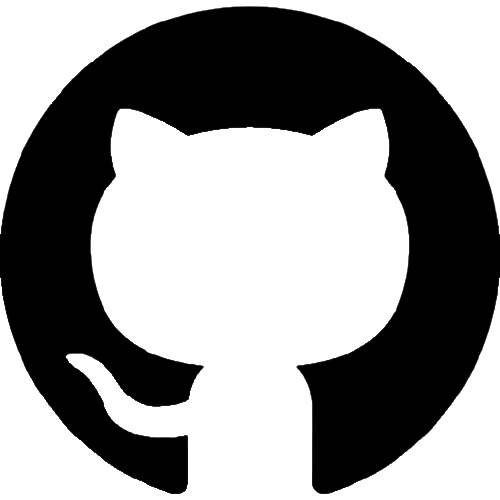
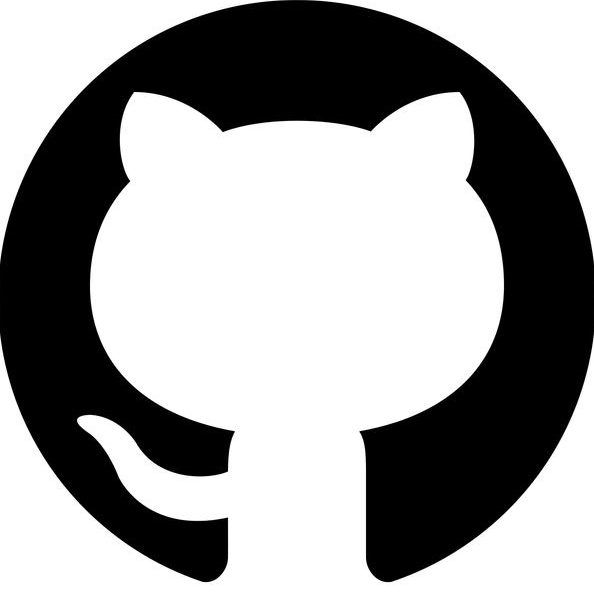
Redimensionamento dos ícones de link das redes sociais da página About Me

diff --git a/src/pages/AboutMe/SocialNetworks/SocialNetworks.style.ts b/src/pages/AboutMe/SocialNetworks/SocialNetworks.style.ts
@@ -32,8 +32,8 @@ export const DirectMessageContainer = styled(Box)`
     }
 
     .section-info-main img {
-        width: 16rem;
-        height: 16rem;
+        width: 10rem;
+        height: 10rem;
 
         border-radius: 50%;
 
@@ -42,8 +42,8 @@ export const DirectMessageContainer = styled(Box)`
 
     .img-filter {
         position: absolute;
-        width: 16rem;
-        height: 16rem;
+        width: 10rem;
+        height: 10rem;
 
         border-radius: 50%;
 
